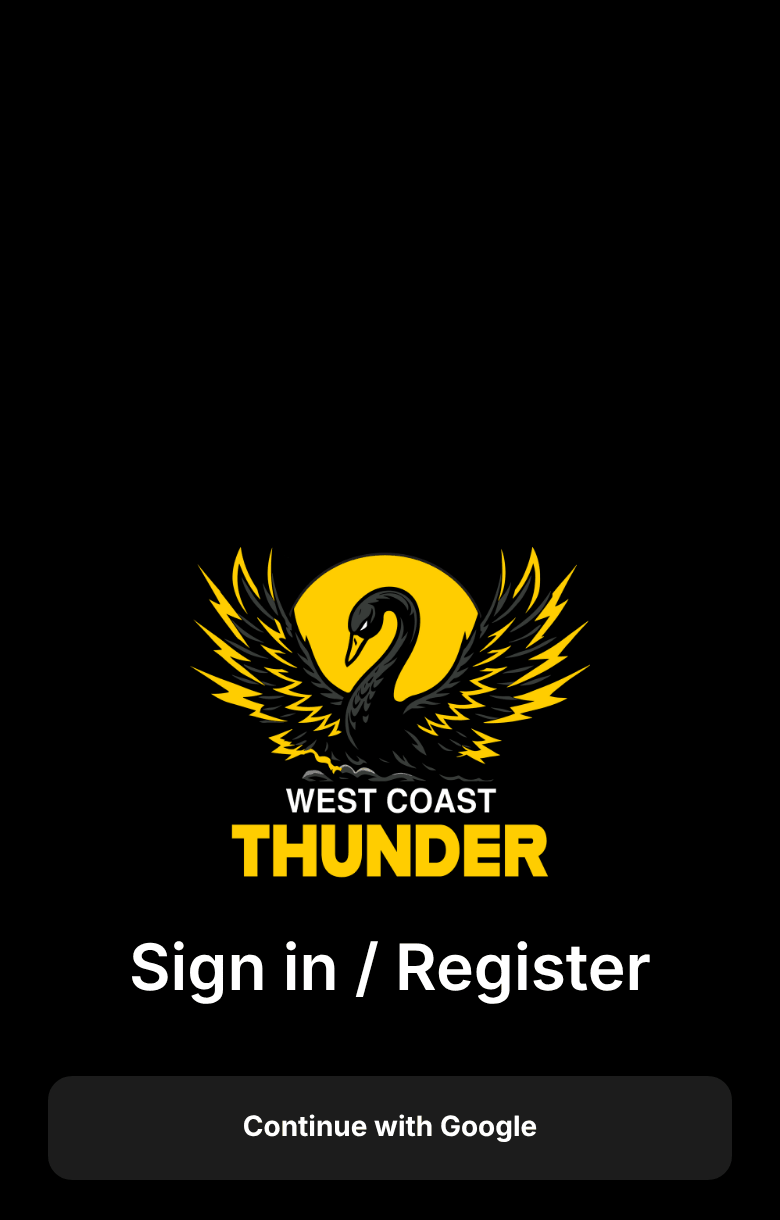
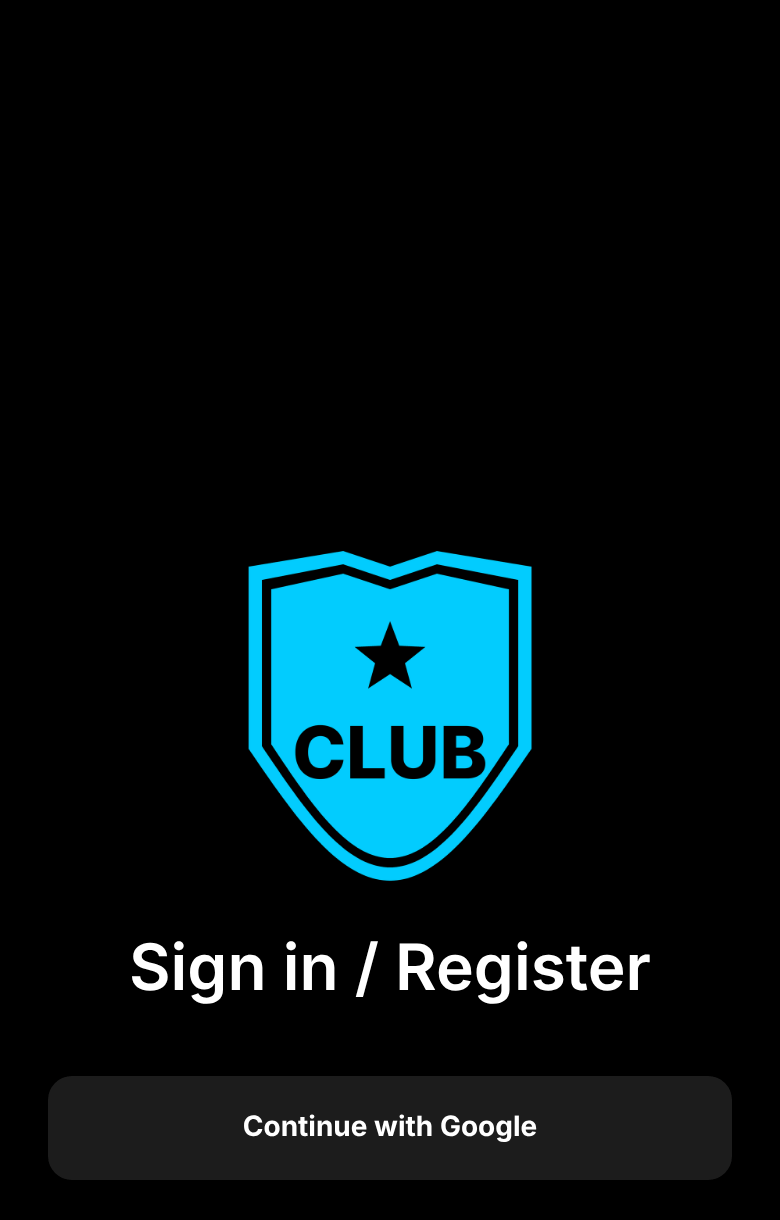
Use a generic Club look on a fresh install
The built-in name, colours and logo are now a generic "Club" in blue
(#02CCFE) on black with a CLUB shield logo, instead of West Coast Thunder's.
A club's own look comes from Club settings once a member signs in.

Claude-Session: https://claude.ai/code/session_01ANNYb5frNcTVSphR3CGS7E

Changed region(s): [[0.2462, 0.4361, 0.7385, 0.7475]]

diff --git a/src/constants/club.ts b/src/constants/club.ts
@@ -1,21 +1,22 @@
 /**
- * The club this build of the app is for. These are the defaults: an admin can
- * change the name, colours and logo in Administration > Club settings, and
- * the app uses those instead once a member has signed in.
+ * The app's generic look, used on a fresh install and wherever Club settings
+ * are empty. An admin sets the club's own name, colours and logo in
+ * Administration > Club settings, and the app uses those once a member has
+ * signed in.
  *
  * Setting the app up for another club? Change these, the app name, ids and
  * images in app.json and assets/images. See docs/new-club-setup.md.
  */
 export const ClubDefaults = {
-  name: 'West Coast Thunder',
+  name: 'Club',
   /** Used to find the club's teams in PlayHQ fixtures and to name exported files. */
-  shortName: 'Thunder',
+  shortName: 'Club',
   background: '#000000',
   /** Light text is #FFFFFF, dark text #000000. */
   text: '#FFFFFF',
   /** Buttons, links, selected chips and other highlights. */
-  hero: '#FFCD00',
+  hero: '#02CCFE',
 } as const;
 
-/** The logo built into the app, shown until an admin uploads one. */
+/** The generic CLUB logo built into the app, shown until an admin uploads one. */
 export const DefaultLogo = require('@/assets/images/logo.png');

diff --git a/src/app/admin/club.tsx b/src/app/admin/club.tsx
@@ -129,7 +129,7 @@ export default function ClubSettingsScreen() {
 
   async function save() {
     if (badColour) {
-      setError(`${badColour.label} must be a colour code like #FFCD00.`);
+      setError(`${badColour.label} must be a colour code like ${ClubDefaults.hero}.`);
       return;
     }
     setSaving(true);

diff --git a/docs/user-guide.md b/docs/user-guide.md
@@ -80,8 +80,10 @@ whole club in **Club settings**. A feature that's off disappears for every role.
 
 ### Install the app
 
-The club sends a link to install the app on iPhone (TestFlight) or Android. When the app opens,
-the West Coast Thunder logo plays briefly and then the sign-in screen appears.
+The club sends a link to install the app on iPhone (TestFlight) or Android. The first time it
+opens, before it knows which club you're in, the app shows a plain blue-and-black CLUB logo and
+the sign-in screen. Once you sign in it switches to West Coast Thunder's logo and colours and
+remembers them, so from then on the Thunder logo plays briefly each time the app opens.
 
 ### Sign in with Google
 
@@ -768,17 +770,18 @@ to OneDrive or attach it to an email.
 ### Club settings
 
 **Club settings** sets up the app for the club. Anything left empty uses the app's built-in
-defaults (West Coast Thunder's name, logo and yellow-on-black colours).
+generic look: the name "Club", a blue CLUB shield logo, and blue (`#02CCFE`) on black. West Coast
+Thunder's name, logo and yellow-on-black colours are saved here, so leave them filled in.
 
 - **Club name** is used in the app's wording and read out by screen readers for the logo. The **short name** (for example
   "Thunder") finds the club's teams when importing PlayHQ fixtures and names exported files.
 - **Logo**: **Choose logo** to upload a square PNG or JPEG up to 2 MB. It shows on the home screen
-  and when the app opens. **Use the built-in logo** goes back to the original.
+  and when the app opens. **Use the built-in logo** goes back to the generic CLUB logo.
 - **Colours**: type a colour code such as `#FFCD00` for the **background** and the **hero
   colour** (buttons, links and highlights), and choose **Light text** or **Dark text** to suit the
   background. Panels and the softer text for details are worked out from these. The preview shows
   how they look together and warns when text or buttons would be hard to read. **Use the built-in
-  colours** goes back to black, white and yellow.
+  colours** goes back to black, white and blue.
 - **Features**: switch off any of Messages, Calendar, Daily check-ins, Injuries, Attendance and
   Awards. A switched-off feature disappears from every member's home screen, to-do list and menus,
   and its Administration pages are hidden. Nothing is deleted, so switching it back on brings
@@ -786,9 +789,10 @@ defaults (West Coast Thunder's name, logo and yellow-on-black colours).
 - **Physios get club messages**: when on, messages sent to everyone in the club also go to
   physios. Physios always get messages sent to the Physio role. It starts off.
 
-Tap **Save club settings**. Members see the changes the next time they open the app. The app's
-icon, its name under the icon and the splash screen are part of the app build and don't change
-here.
+Tap **Save club settings**. Members see the changes the next time they open the app. Someone
+who has just installed the app sees the generic look on the sign-in screen until they sign in.
+The app's icon, its name under the icon and the splash screen are part of the app build and don't
+change here.
 
 <img src="user-guide/club-settings.png" width="210" alt="Club settings: name, logo and colours">
 <img src="user-guide/club-settings-features.png" width="210" alt="Club settings: turning features on and off">

diff --git a/docs/new-club-setup.md b/docs/new-club-setup.md
@@ -15,13 +15,16 @@ does everything else from the app.
 
 Fork or copy this repository for the club. In the copy:
 
-1. **`src/constants/club.ts`**: the club's name, short name and the three default colours. These
-   are what people see before they sign in for the first time, and until the admin changes them.
+1. **`src/constants/club.ts`**: the app's built-in look, a generic "Club" in blue (`#02CCFE`) on
+   black with the CLUB shield logo in `assets/images/logo.png`. People see it before they sign in
+   for the first time, and wherever Club settings are empty. You can leave it as it is and set the
+   club's own look in Club settings (step 5), or change it here so the sign-in screen shows the
+   club from the first open.
 2. **`app.json`**: `name` (the name under the icon), `slug`, `scheme` (used for sign-in, for
    example `hawksapp`), `ios.bundleIdentifier` and `android.package` (for example
    `au.com.hawks.app`), the splash screen and notification colours, and remove `extra.eas` and
    `updates` so the club gets its own EAS project in step 4.
-3. **`assets/images/`**: replace `logo.png`, `icon.png`, `splash-icon.png`, `favicon.png` and the
+3. **`assets/images/`**: replace `logo.png` (also the splash screen), `icon.png`, `splash-icon.png`, `favicon.png` and the
    three `android-icon-*.png` files with the club's, at the same sizes.
 4. **`docs/user-guide.md`**: the guide describes West Coast Thunder's setup. Update the club name
    and squad names, or leave it out.
